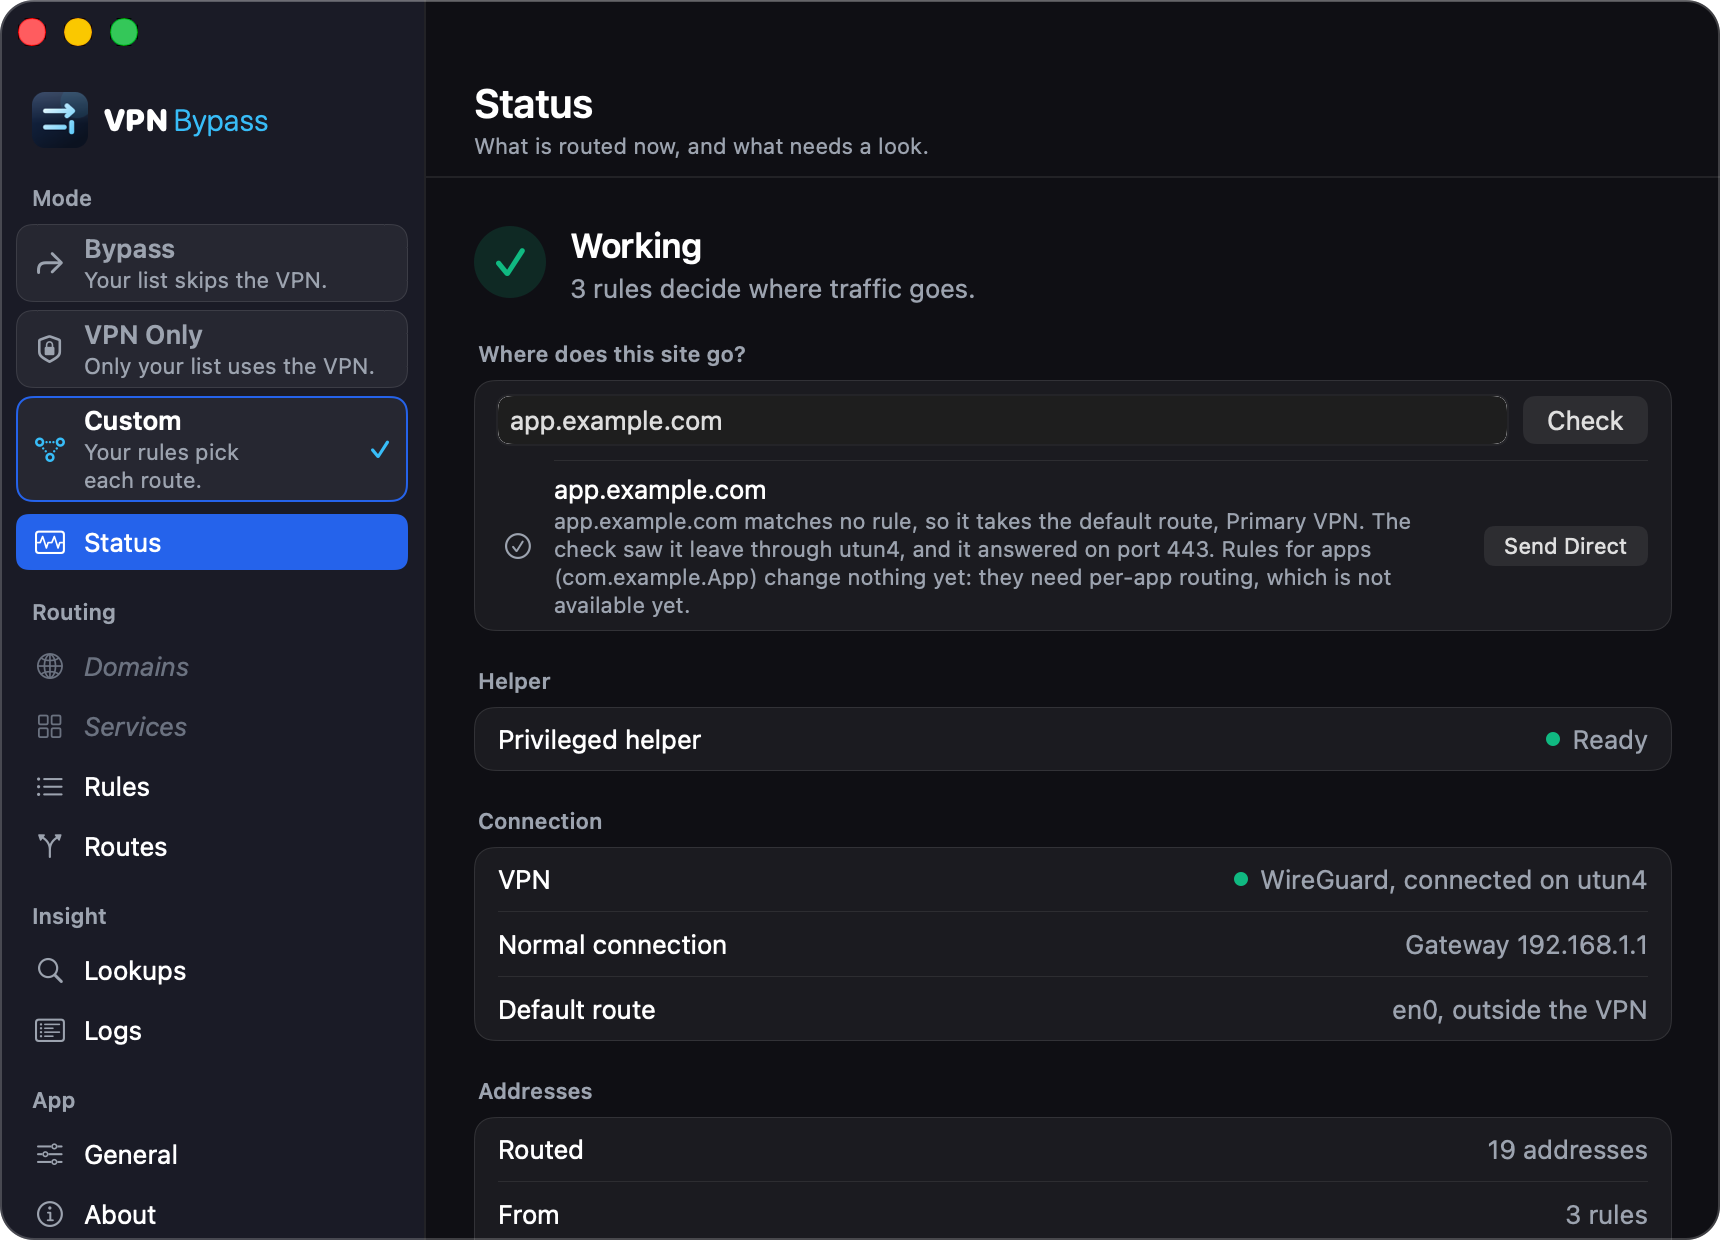
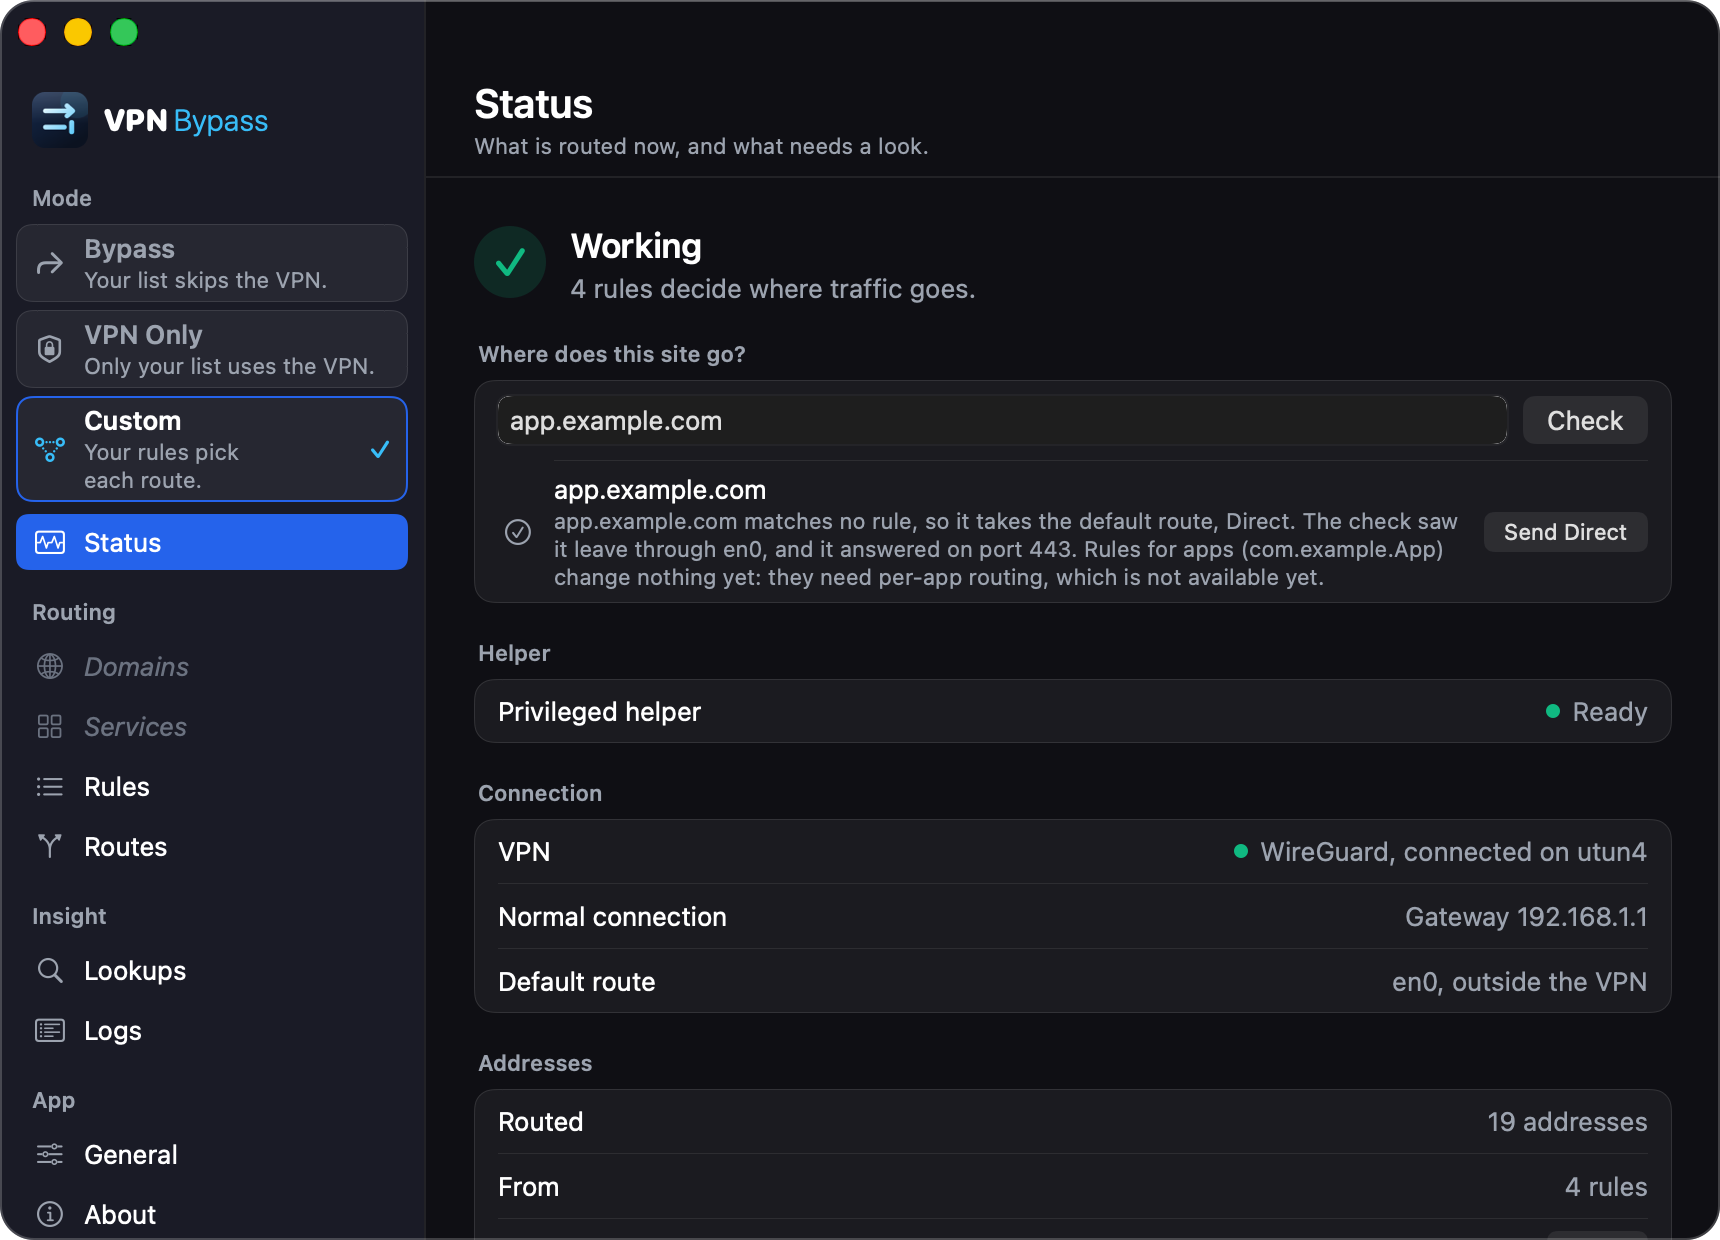
fix: name inactive app rules in every Custom site check, not only rule and default answers
An installed route, an unresolved name or a pause answered before the rules
loop, so those answers left the process rules out. The Status screenshot
fixture now uses the page's own rules and an address outside the seeded range.

diff --git a/Sources/VPNBypassCore/SiteRoute.swift b/Sources/VPNBypassCore/SiteRoute.swift
@@ -173,6 +173,18 @@ enum SiteRoute {
     // MARK: - Matching
 
     static func match(host: String, addresses: [String], in s: Snapshot) -> Found {
+        var found = matchDestination(host: host, addresses: addresses, in: s)
+        // Custom: a process rule matches an app, never a name, and nothing serves it yet
+        // (ProcessRule.serving). Every answer names them, whatever decided the name (an installed
+        // route, a rule, the default, a pause, no address), so a listed app is not a mystery.
+        if s.custom {
+            found.inactiveAppRules = s.rules.filter(\.enabled).sorted { $0.order < $1.order }
+                .filter { ProcessRule.serving($0).servedBy == RuleServedBy.none }.map(\.pattern)
+        }
+        return found
+    }
+
+    private static func matchDestination(host: String, addresses: [String], in s: Snapshot) -> Found {
         // The pause rides along on every answer, so `paused` is there whatever matched.
         guard !addresses.isEmpty else { return Found(match: .unresolved, expected: nil, pause: s.pause) }
         // Paused, the app's routes are out (Pause.swift), and Pause runs only where that sends
@@ -181,7 +193,7 @@ enum SiteRoute {
         if let pause = s.pause {
             var lists = s
             lists.pause = nil
-            let after = match(host: host, addresses: addresses, in: lists)
+            let after = matchDestination(host: host, addresses: addresses, in: lists)
             if after.match == .route {
                 var kept = after
                 kept.pause = pause
@@ -224,9 +236,6 @@ enum SiteRoute {
             }.map(\.id))
             let byId = Dictionary(s.routes.map { ($0.id, $0) }, uniquingKeysWith: { first, _ in first })
             let ordered = s.rules.filter(\.enabled).sorted { $0.order < $1.order }
-            // A process rule matches an app, never a name, and nothing serves it yet
-            // (ProcessRule.serving): the answer names them so a listed app is not a mystery.
-            let apps = ordered.filter { ProcessRule.serving($0).servedBy == RuleServedBy.none }.map(\.pattern)
             for (index, rule) in ordered.enumerated() {
                 // A rule whose route is gone or turned off is inert, as RouteCompiler and
                 // WildcardRoutes treat it: the name falls through to a later rule.
@@ -242,16 +251,13 @@ enum SiteRoute {
                     found.notRouted = unrouted.reason
                     found.resolverDomain = unrouted.resolver
                 }
-                found.inactiveAppRules = apps
                 return found
             }
             if let id = s.defaultRouteId, let route = byId[id] {
                 return Found(match: .defaultRoute, routeName: route.name,
-                             expected: way(for: route, vpnInterface: s.vpnInterface, pinned: s.pinnedInterfaces),
-                             inactiveAppRules: apps)
+                             expected: way(for: route, vpnInterface: s.vpnInterface, pinned: s.pinnedInterfaces))
             }
-            return Found(match: .none, expected: loopback ? .physical : s.vpnInterface.map { .tunnel($0) },
-                         inactiveAppRules: apps)
+            return Found(match: .none, expected: loopback ? .physical : s.vpnInterface.map { .tunnel($0) })
         }
 
         // 2. A listed wildcard (the most specific one, as macOS picks the resolver file).

diff --git a/Tests/VPNBypassTests/DocScreenshotsTests.swift b/Tests/VPNBypassTests/DocScreenshotsTests.swift
@@ -1531,14 +1531,15 @@ final class DocScreenshotsTests: XCTestCase {
     func testStatusPageSiteCheckProcessRule() throws {
         seedCustom()
         let direct = try XCTUnwrap(rm.config.routes.first { $0.egress == .direct })
-        let vpn = try XCTUnwrap(rm.config.routes.first { $0.egress == .vpnDefault })
-        let rules = [Rule(matchType: .process, pattern: "com.example.App", routeId: direct.id, order: 0)]
-        let snapshot = SiteRoute.Snapshot(mode: .custom, custom: true, list: [], services: [], rules: rules,
-                                          routes: [direct, vpn], defaultRouteId: vpn.id, activeRoutes: [],
-                                          localGateway: "192.168.1.1", vpnInterface: "utun4")
+        rm.config.rules.append(Rule(matchType: .process, pattern: "com.example.App", routeId: direct.id, order: 3))
+        // The same rules and routes the page counts, so the answer and the headline agree.
+        let snapshot = SiteRoute.Snapshot(mode: .custom, custom: true, list: [], services: [], rules: rm.config.rules,
+                                          routes: rm.config.routes, defaultRouteId: rm.config.defaultRouteId,
+                                          activeRoutes: [], localGateway: "192.168.1.1", vpnInterface: "utun4")
         let host = "app.example.com"
-        let probe = PathCheck.Probe(address: "203.0.113.7", routeInterface: "utun4", sourceAddress: "10.8.0.2",
-                                    sourceInterface: "utun4", answer: .connected, latencyMs: 24)
+        // Outside the seeded 203.0.113.0/24 rule, so no destination rule matches the name.
+        let probe = PathCheck.Probe(address: "198.51.100.20", routeInterface: "en0", sourceAddress: "192.168.1.20",
+                                    sourceInterface: "en0", answer: .connected, latencyMs: 24)
         let control = PathCheck.Probe(address: "192.0.2.1", routeInterface: "utun4", answer: .notTried)
         let answer = SiteRoute.answer(host: host, mode: .custom, addresses: [probe.address],
                                       found: SiteRoute.match(host: host, addresses: [probe.address], in: snapshot),

diff --git a/Tests/VPNBypassTests/ProcessRuleTests.swift b/Tests/VPNBypassTests/ProcessRuleTests.swift
@@ -183,6 +183,27 @@ final class ProcessRuleTests: XCTestCase {
         XCTAssertTrue(VPNBCLI.whyLines(answer).last?.contains("inactive app rules: com.example.App") == true)
     }
 
+    /// Every Custom answer names the app rules, not only the rule and default ones: an installed
+    /// route, an unresolved name and a pause decide before the rules loop.
+    func testWhyNamesProcessRulesWhateverDecidedTheName() {
+        let direct = Route(name: "Direct", egress: .direct)
+        let rules = [Rule(matchType: .process, pattern: "com.example.App", routeId: direct.id, order: 0)]
+        var s = customSnapshot(rules: rules, routes: [direct], defaultRouteId: direct.id)
+        s.activeRoutes = [(destination: "203.0.113.7", gateway: "192.168.1.1", source: "203.0.113.7")]
+        let installed = SiteRoute.match(host: "app.example.com", addresses: ["203.0.113.7"], in: s)
+        XCTAssertEqual(installed.match, .route)
+        XCTAssertEqual(installed.inactiveAppRules, ["com.example.App"])
+
+        let unresolved = SiteRoute.match(host: "app.example.com", addresses: [], in: s)
+        XCTAssertEqual(unresolved.match, .unresolved)
+        XCTAssertEqual(unresolved.inactiveAppRules, ["com.example.App"])
+
+        var bypass = s
+        bypass.custom = false
+        XCTAssertEqual(SiteRoute.match(host: "app.example.com", addresses: ["203.0.113.7"], in: bypass).inactiveAppRules, [],
+                       "outside Custom no rule is in force, so none is named")
+    }
+
     /// Positive control: with no process rule, the answer carries no such field or sentence.
     func testWhyWithoutProcessRulesSaysNothingAboutApps() {
         let direct = Route(name: "Direct", egress: .direct)
